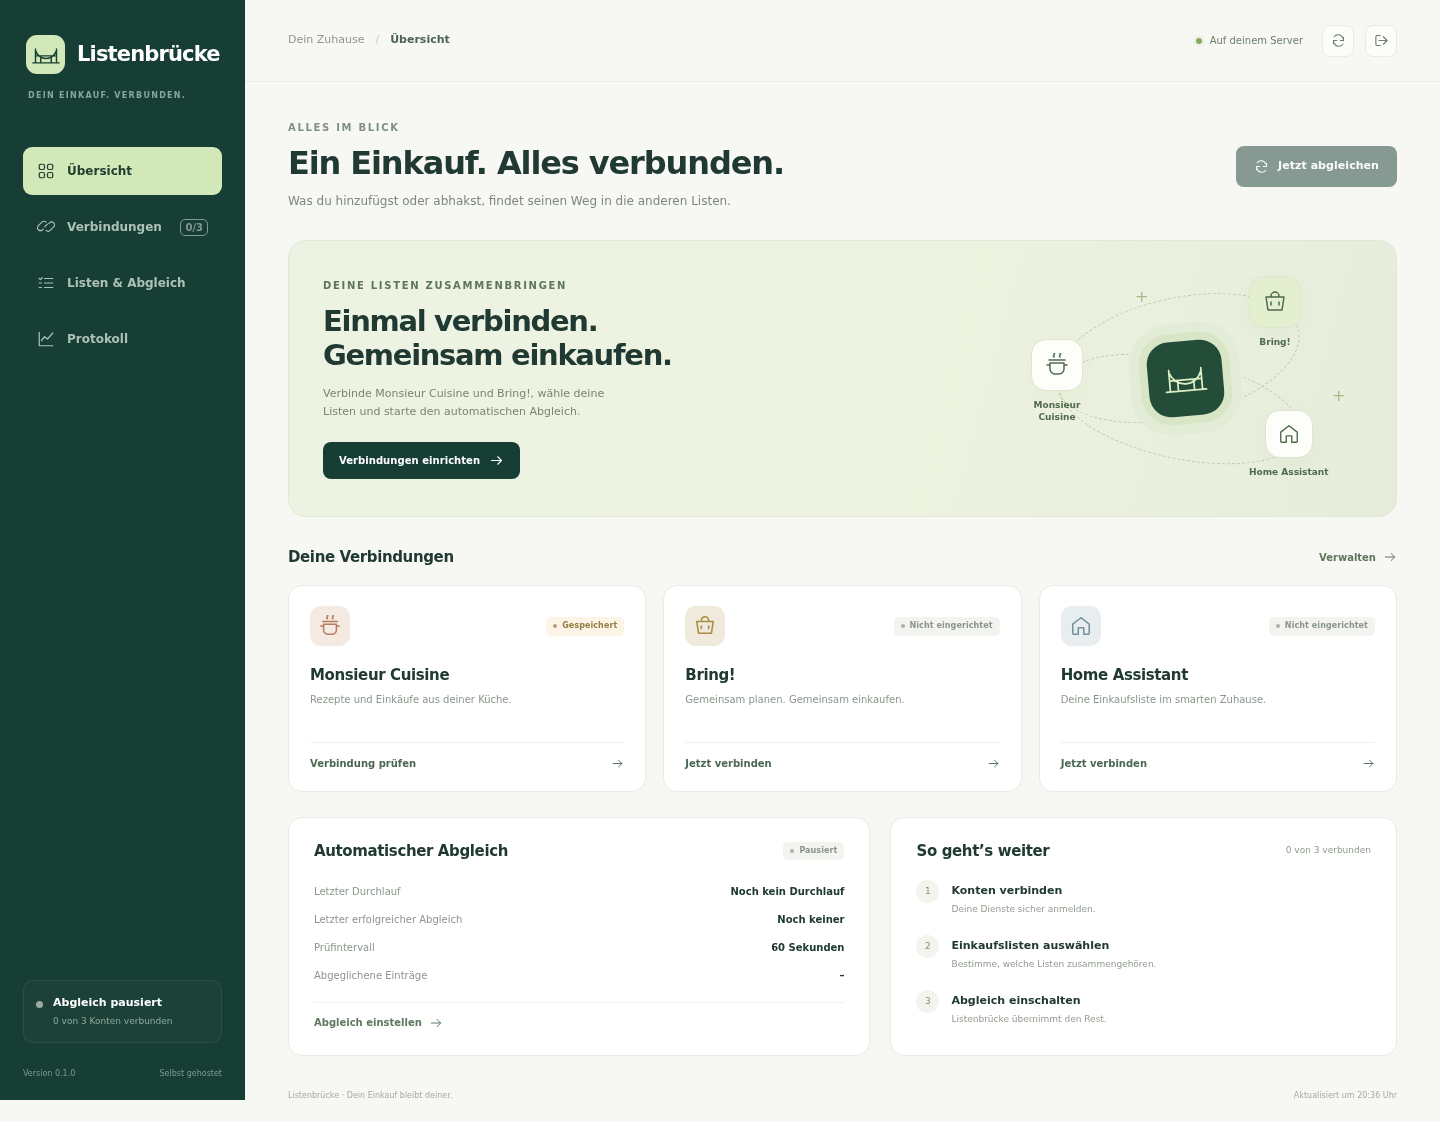
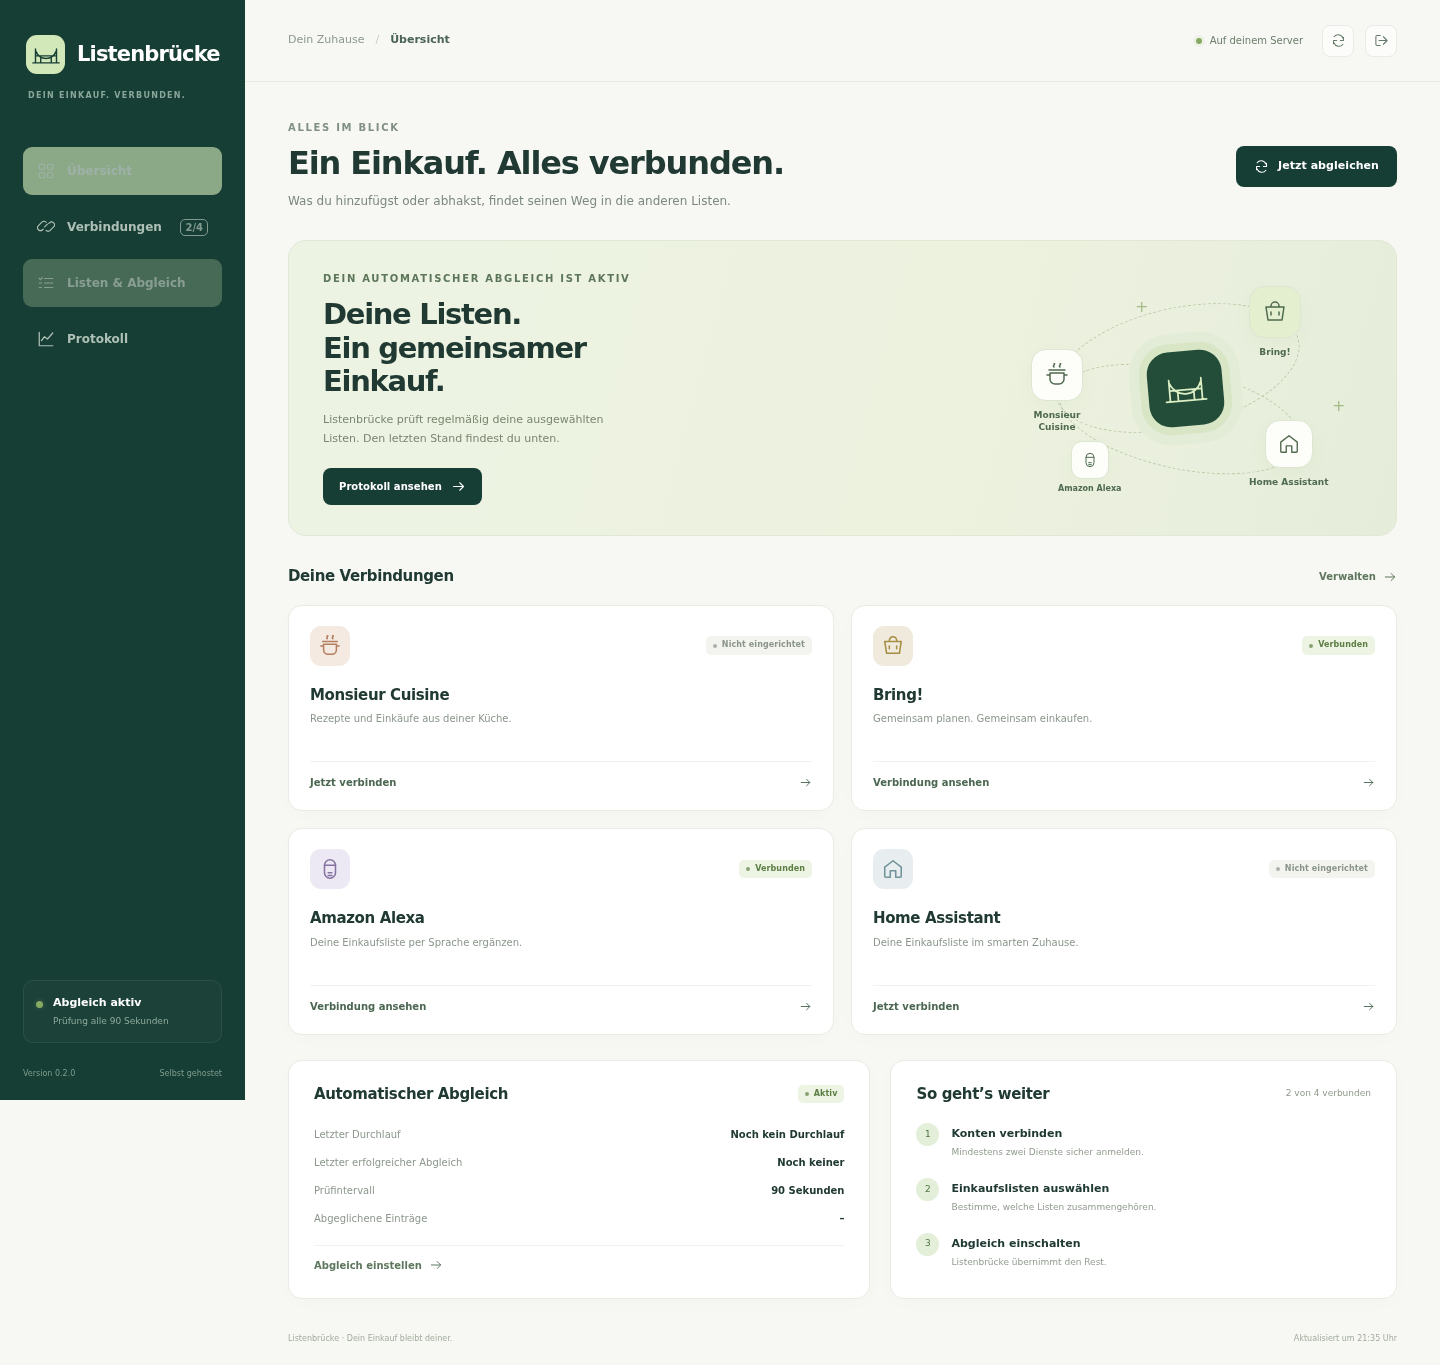
Clarify Alexa progress and refresh the public interface preview

diff --git a/docs/index.html b/docs/index.html
@@ -68,7 +68,7 @@
     <div class="detail-strip"><div><svg><use href="#i-refresh"/></svg><p><strong>Ein Intervall, das zu dir passt.</strong><span>Automatisch alle 30 bis 3600 Sekunden. Ein manueller Abgleich ist ebenfalls möglich.</span></p></div><div><svg><use href="#i-info"/></svg><p><strong>Konflikte bleiben sichtbar.</strong><span>Widersprüchliche Änderungen erscheinen im Protokoll und lassen sich in deinen Listen klären.</span></p></div></div>
   </section>
 
-  <section id="oberflaeche" class="interface-section" aria-labelledby="interface-title"><div class="container"><div class="section-intro"><div><span class="eyebrow">ALLES IM BLICK.</span><h2 id="interface-title">Eine kleine Zentrale.<br>Für deinen ganzen Einkauf.</h2></div><p>Verbindungen prüfen. Listen auswählen. Den Abgleich verfolgen. Eine aufgeräumte deutsche Oberfläche führt dich durch die Einrichtung.</p></div><a class="app-preview" href="assets/interface.png" target="_blank" rel="noopener" aria-label="Screenshot der Listenbrücke-Oberfläche vergrößern"><div class="preview-toolbar"><span class="window-dots"><i></i><i></i><i></i></span><span><svg><use href="#i-lock"/></svg>Listenbrücke · auf deinem Server</span><svg><use href="#i-external"/></svg></div><img src="assets/interface.png" width="1440" height="1122" loading="lazy" alt="Listenbrücke mit einer Übersicht der drei Dienste, Verbindungsstatus, Abgleich und Einrichtungsschritten. Diese Beispielansicht enthält keine persönlichen Kontodaten."></a><div class="preview-caption"><span>Beispielansicht der Oberfläche. Keine persönlichen Kontodaten.</span><span>Auch auf Smartphone und Tablet.</span></div></div></section>
+  <section id="oberflaeche" class="interface-section" aria-labelledby="interface-title"><div class="container"><div class="section-intro"><div><span class="eyebrow">ALLES IM BLICK.</span><h2 id="interface-title">Eine kleine Zentrale.<br>Für deinen ganzen Einkauf.</h2></div><p>Verbindungen prüfen. Listen auswählen. Den Abgleich verfolgen. Eine aufgeräumte deutsche Oberfläche führt dich durch die Einrichtung.</p></div><a class="app-preview" href="assets/interface.png" target="_blank" rel="noopener" aria-label="Screenshot der Listenbrücke-Oberfläche vergrößern"><div class="preview-toolbar"><span class="window-dots"><i></i><i></i><i></i></span><span><svg><use href="#i-lock"/></svg>Listenbrücke · auf deinem Server</span><svg><use href="#i-external"/></svg></div><img src="assets/interface.png" width="1440" height="1365" loading="lazy" alt="Listenbrücke mit einer Übersicht der vier Dienste, Verbindungsstatus, Abgleich und Einrichtungsschritten. Diese Beispielansicht enthält keine persönlichen Kontodaten."></a><div class="preview-caption"><span>Beispielansicht der Oberfläche. Keine persönlichen Kontodaten.</span><span>Auch auf Smartphone und Tablet.</span></div></div></section>
 
   <section class="section container trust-section" aria-labelledby="trust-title"><div class="trust-heading"><span class="eyebrow">BEWUSST IN DEINER HAND.</span><h2 id="trust-title">Deine Daten haben<br>ein Zuhause.</h2><p>Zugangsdaten werden lokal verschlüsselt gespeichert. Du entscheidest, welche Listen verbunden sind und ob Löschungen weitergegeben werden.</p><a class="text-link" href="https://github.com/xerx12/listenbruecke#daten--sicherheit">Mehr zu Daten &amp; Sicherheit <svg><use href="#i-arrow"/></svg></a></div><div class="trust-items"><div><span class="trust-icon"><svg><use href="#i-lock"/></svg></span><div><h3>Deine Anmeldung bleibt deine.</h3><p>Bei Lidl meldest du dich direkt im eigenen Browser an. Ein Browserhelfer übergibt das Anmeldeergebnis an deine Listenbrücke.</p></div></div><div><span class="trust-icon"><svg><use href="#i-check"/></svg></span><div><h3>Löschen ist eine bewusste Entscheidung.</h3><p>Löschungen werden standardmäßig nicht weitergegeben. Ein fehlgeschlagener Abruf wird niemals als leere Einkaufsliste behandelt.</p></div></div><div><span class="trust-icon"><svg><use href="#i-code"/></svg></span><div><h3>Offener Code. Nachvollziehbarer Stand.</h3><p>Quellcode und Tests sind öffentlich. Version 0.2.0 ist experimentell; die Anbieter nutzen weiterhin ihre eigenen Cloud-Dienste.</p></div></div></div></section>
 

diff --git a/listenbruecke/web/app.js b/listenbruecke/web/app.js
@@ -299,7 +299,7 @@
       button.href = "#events";
     }
     $$('[data-sync-button]').forEach((syncButton) => {
-      syncButton.disabled = state.syncing || running || !ready || !hasTargets();
+      syncButton.disabled = state.syncing || running || state.alexaAuth.running || state.alexaSubmitting || !ready || !hasTargets();
       syncButton.title = running ? "Der Abgleich läuft bereits." : !ready ? "Verbinde mindestens zwei Konten und prüfe die ausgewählten Verbindungen." : !hasTargets() ? "Wähle mindestens zwei Einkaufslisten aus und speichere die Einstellungen." : "Ausgewählte Listen jetzt abgleichen";
     });
   }

diff --git a/listenbruecke/tests/test_api.py b/listenbruecke/tests/test_api.py
@@ -418,6 +418,9 @@ def test_alexa_otp_login_commits_only_encrypted_session_and_explicit_connector(i
     saved = {"email": session["email"], "login_data": {"tokens": {"refresh_token": "SYNTHETIC-REFRESHED-SESSION"}}}
     client.portal.call(app.state.service.clients["alexa"].save, saved)
     assert app.state.service.store.get_secret("alexa") == saved
+    assert client.request("DELETE", "/api/connections/alexa", json={}).status_code == 200
+    assert client.get("/api/connections/alexa/auth/status").json() == {"running": False, "complete": False, "error": None}
+    assert app.state.service.store.get_secret("alexa") is None
 
 
 @pytest.mark.parametrize("result", [None, {"email": "test@example.invalid", "login_data": {"tokens": {}}, "password": "FORBIDDEN"},
@@ -454,6 +457,7 @@ def test_alexa_login_locks_configuration_sync_and_import_until_done(instance, mo
     payload = {"email": "test@example.invalid", "password": "test-password", "code": "123456"}
     assert client.post("/api/connections/alexa/auth/start", json=payload).status_code == 202
     assert client.get("/api/connections/alexa/auth/status").json()["running"]
+    assert not client.get("/api/status").json()["sync"]["running"]
     for method, path, body in [
         ("POST", "/api/connections/alexa/auth/start", payload),
         ("PUT", "/api/connections/bring", {"email": "a@example.invalid", "password": "synthetic"}),

diff --git a/listenbruecke/src/listenbruecke/main.py b/listenbruecke/src/listenbruecke/main.py
@@ -78,7 +78,7 @@ class Service:
                 "providers": [self.provider(p) for p in PROVIDERS],
                 "sync": {**self.settings(), "last_run": None, "last_success": None,
                          "last_error": None, "items_synced": 0, **metrics,
-                         "running": self.sync_running()},
+                         "running": self._sync_running or bool(self.manual_task and not self.manual_task.done())},
                 "events": self.store.events(12)}
 
     async def connector(self, provider):
@@ -560,6 +560,8 @@ def create_app(data_dir=None, *, factory=None, background=True):
             service.disable_for_change()
             await service.forget_client(provider)
             service.store.delete_secret(provider)
+            if provider == "alexa":
+                service.alexa_auth_status = {"running": False, "complete": False, "error": None}
         return service.provider(provider)
 
     @app.post("/api/connections/{provider}/test")

diff --git a/listenbruecke/DOCS.md b/listenbruecke/DOCS.md
@@ -38,6 +38,9 @@ Gespeichert wird ausschließlich die verschlüsselte Amazon-Sitzung. Passwort un
 Einmalcode werden nicht gespeichert und nach dem Absenden aus dem Formular entfernt.
 Bei einer abgelaufenen Sitzung die Anmeldung mit einem frischen Code wiederholen.
 Eine Alexa-Integration in Home Assistant ist für diesen direkten Zugang nicht nötig.
+Verlangt Amazon zusätzlich ein CAPTCHA, eine Passkey-Anmeldung oder eine andere
+Sicherheitsbestätigung, kann dieser Anmeldeweg sie nicht beantworten. Offene
+Sicherheitsabfragen im eigenen Amazon-Konto prüfen und die Anmeldung erneut versuchen.
 
 Danach die Verbindung testen und unter **Listen & Abgleich** die gewünschte
 Alexa-Einkaufsliste auswählen. Bring! und Alexa können auch ohne Monsieur Cuisine

diff --git a/listenbruecke/THIRD_PARTY_LICENSES.md b/listenbruecke/THIRD_PARTY_LICENSES.md
@@ -39,6 +39,8 @@ SOFTWARE.
 The Alexa connector uses aioamazondevices 17.2.8, maintained by Simone Chemelli
 and contributors: https://github.com/chemelli74/aioamazondevices
 
+Copyright 2024 Simone Chemelli and contributors.
+
 Licensed under the Apache License, Version 2.0. The dependency includes its own
 license notice; the license text is reproduced below for redistribution.
 
